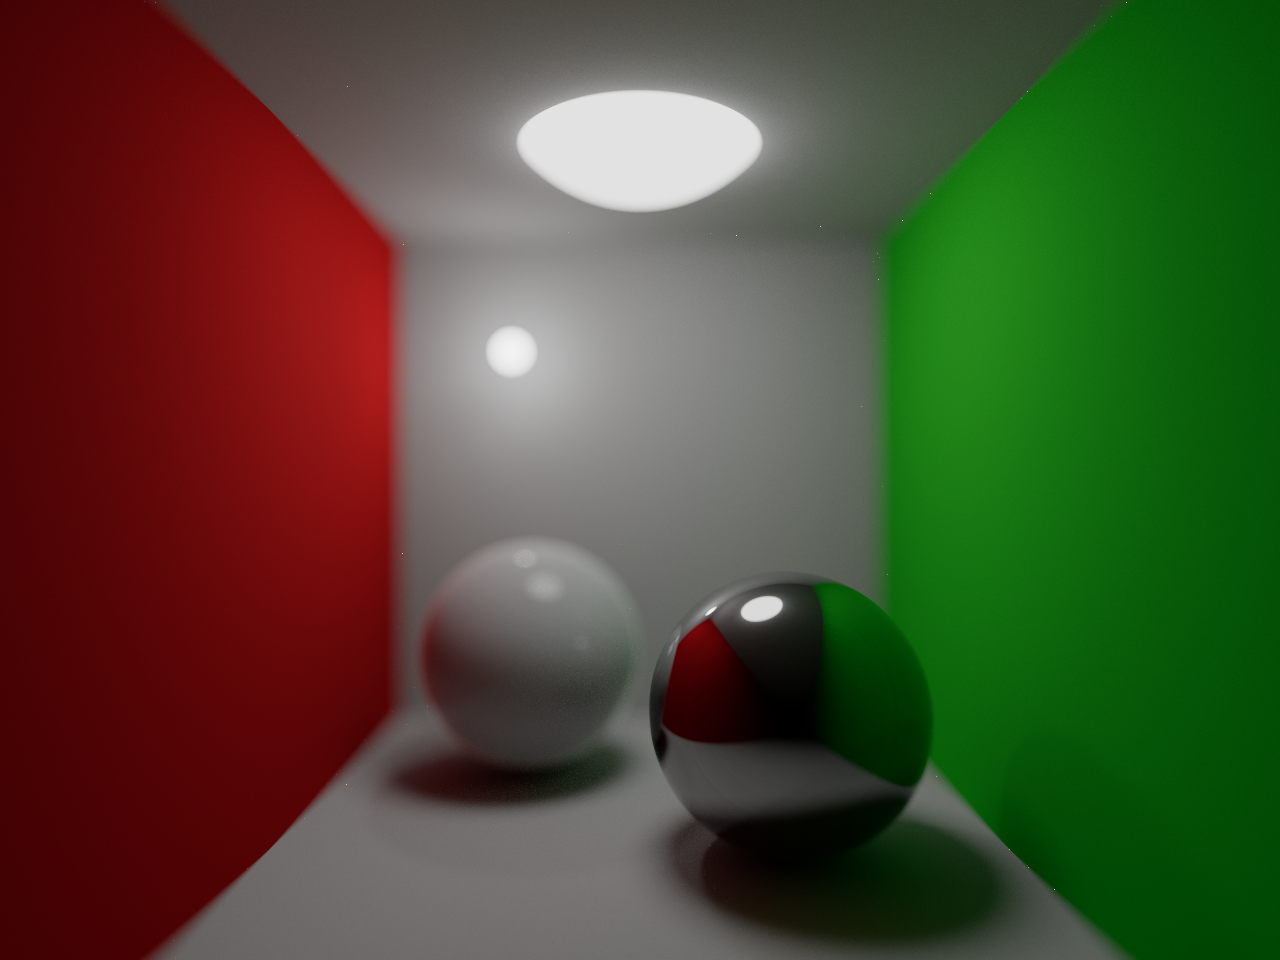
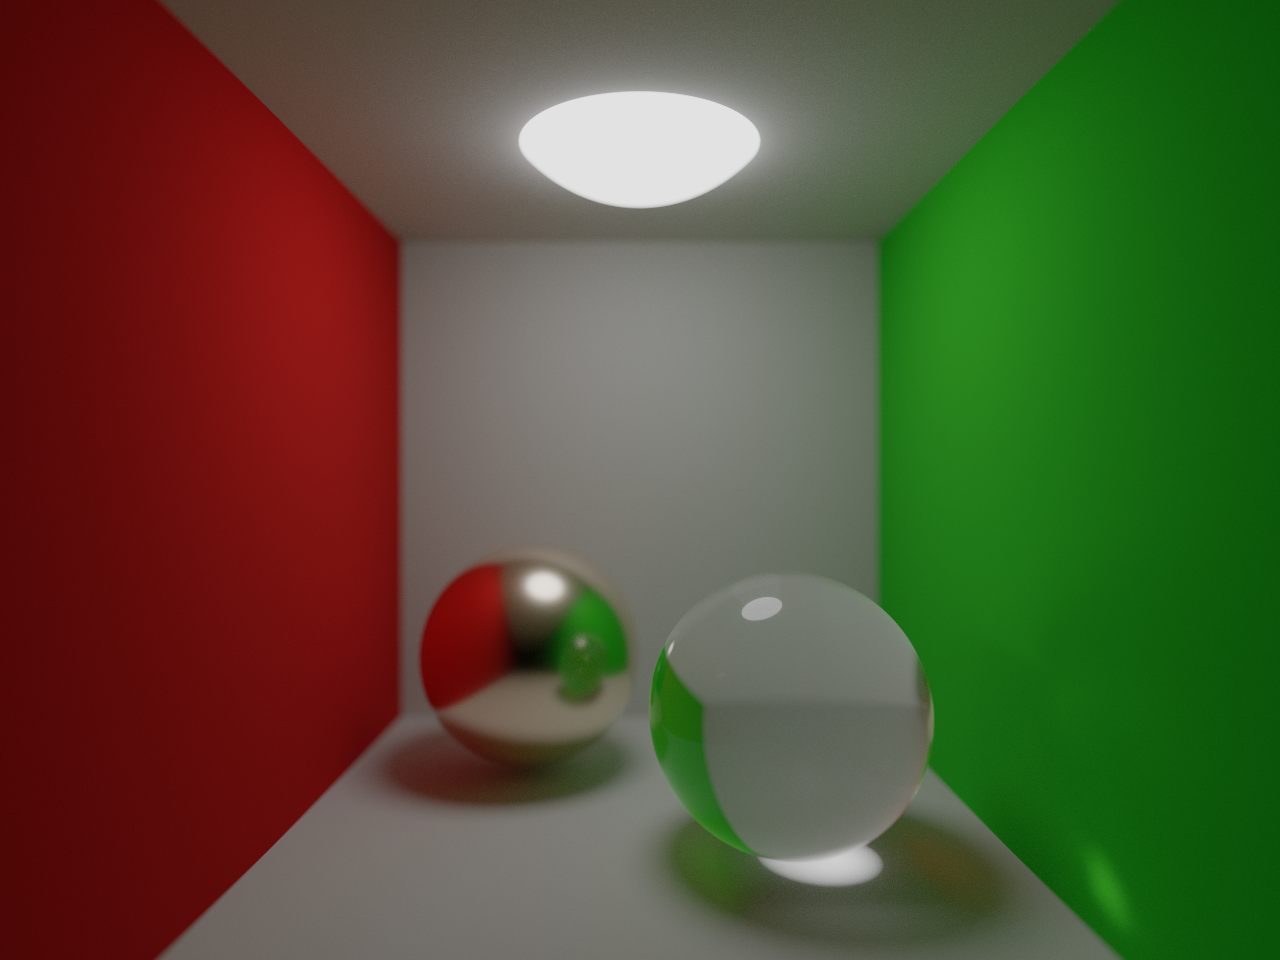
Update readme and screenshot

diff --git a/README.md b/README.md
@@ -1,5 +1,5 @@
 # Path-Tracer
-This is a CPU-only, unidirectional path tracer.
+This is a CPU-only, unidirectional path tracer. Most of the rendering code is unoptimized for the sake of clarity and debugging.
 
 ![Render](render_5000spp.png)
 
@@ -7,29 +7,35 @@ This is a CPU-only, unidirectional path tracer.
 - Unidirectional path tracer with importance sampling and russian roulette
 - Next event estimation (direct light sampling)
 - Multiple importance sampling for next event estimation
-- Physically-based BRDF inspired by the Disney BRDF
+- Physically-based BSDF inspired by the Disney BSDF
 - Area lights
 - Thin lense camera model
 - Multithreaded rendering with tiles
 - Only spheres for now
+- Unit tests for most things incl. chi-square tests for BxDF sampling, and (weak) white furnace tests for BxDFs 
 
 ## Stuff I want to add in the future
-- Microfacet BSDF
 - Triangle meshes
-- kd-trees
+- Some acceleration structure
 - Scene file format
 - Directional lights
 - Firefly removal
 
-## Some useful resources
+## Some useful resources I used
 - [Physically Based Rendering: From Theory To Implementation](http://www.pbr-book.org/)
+- [Background: Physics and Math of Shading (2012), Naty Hoffman](https://blog.selfshadow.com/publications/s2012-shading-course/hoffman/s2012_pbs_physics_math_notes.pdf)
+- [Some Thoughts on the Fresnel Term (2020), Naty Hoffman](https://blog.selfshadow.com/publications/s2020-shading-course/hoffman/s2020_pbs_hoffman_slides.pdf)
+- [Physically Based Shading at Disney (2012), Brent Burley](https://blog.selfshadow.com/publications/s2012-shading-course/burley/s2012_pbs_disney_brdf_notes_v3.pdf)
+- [Extending the Disney BRDF to a BSDF with Integrated Subsurface Scattering (2015), Brent Burley](https://blog.selfshadow.com/publications/s2015-shading-course/burley/s2015_pbs_disney_bsdf_notes.pdf)
+- [Pixar's Foundation for Materials (2017), Christophe Hery et al.](https://blog.selfshadow.com/publications/s2017-shading-course/pixar/s2017_pbs_pixar_notes.pdf)
 - [Real Shading in Unreal Engine 4](https://cdn2.unrealengine.com/Resources/files/2013SiggraphPresentationsNotes-26915738.pdf)
 - [Moving Frostbite to Physically Based Rendering 3.0](https://seblagarde.files.wordpress.com/2015/07/course_notes_moving_frostbite_to_pbr_v32.pdf)
-- All [SIGGRAPH PBR courses](https://blog.selfshadow.com/publications/)
 - Real-time Rendering, 4th Edition
 - [Reflections and Refractions in Ray Tracing (2006), Bram de Greve](https://graphics.stanford.edu/courses/cs148-10-summer/docs/2006--degreve--reflection_refraction.pdf)
-- [Microfacet Models for Refraction through Rough Surfaces (2017), Bruce Walter et al.](https://www.cs.cornell.edu/~srm/publications/EGSR07-btdf.pdf)
+- [Microfacet Models for Refraction through Rough Surfaces (2007), Bruce Walter et al.](https://www.cs.cornell.edu/~srm/publications/EGSR07-btdf.pdf)
+- [Understanding the Masking-Shadowing Function in Microfacet-Based BRDFs (2014), Eric Heitz](http://jcgt.org/published/0003/02/03/)
 - [Sampling the GGX Distribution of Visible Normals (2018), Eric Heitz](http://jcgt.org/published/0007/04/01/paper.pdf)
 
 ## Library licenses
 - std_image_write.h : v1.15 - public domain image writer - [Github link](https://github.com/nothings/stb/blob/master/stb_image_write.h)
+- catch.hpp : v2.13.3 - BSL-1.0 License - [Github link](https://github.com/catchorg/Catch2)
